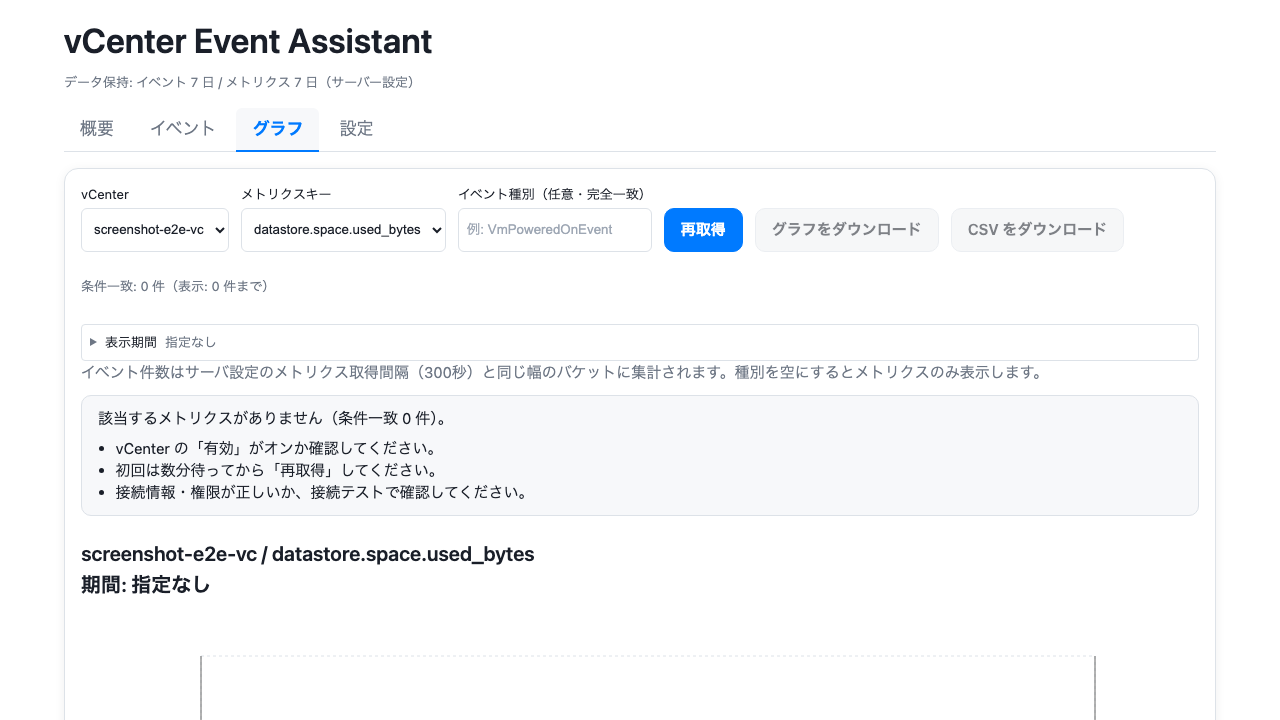
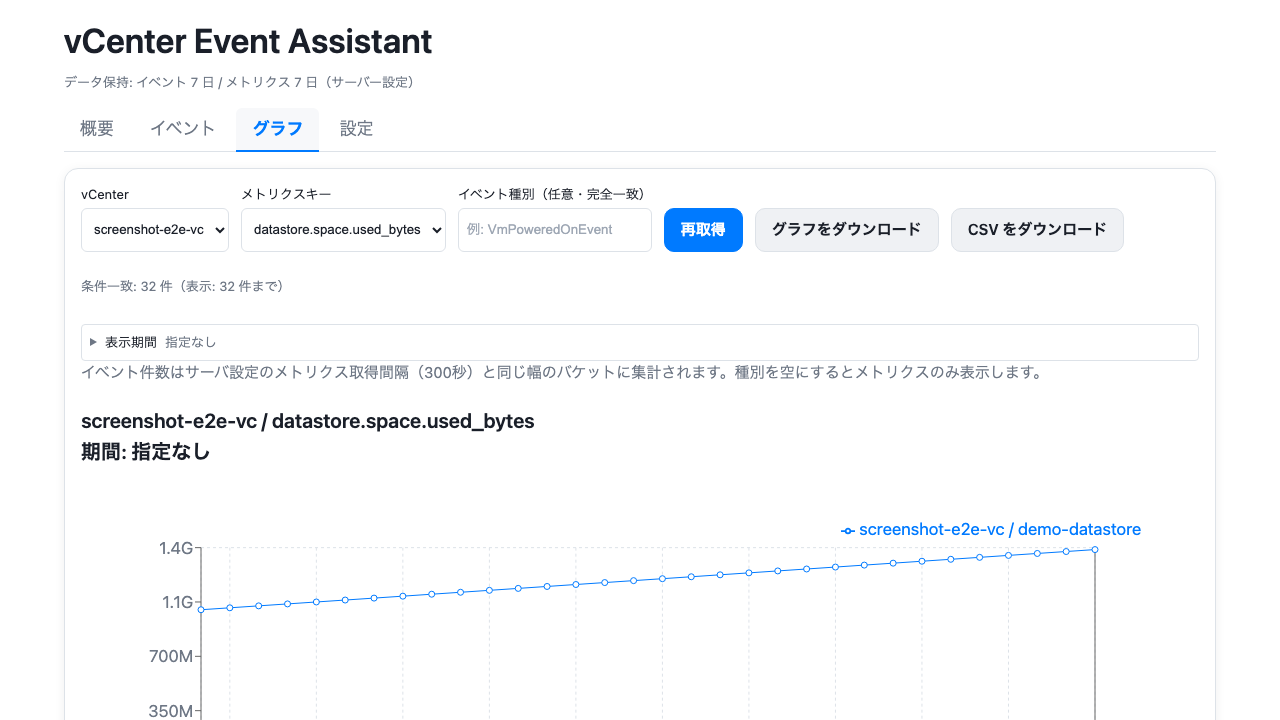
fix: ドキュメント用グラフキャプチャにメトリクス時系列をシード
datastore.space.used_bytes を既定選択に合わせて投入し、Playwright で
.recharts-line 表示を待ってから metrics.png を取得する。

Made-with: Cursor

diff --git a/frontend/e2e/screenshots.spec.ts b/frontend/e2e/screenshots.spec.ts
@@ -56,6 +56,8 @@ test('主要画面のスクリーンショットを docs/images に保存', asyn
   await page.getByRole('button', { name: 'グラフ' }).click()
   await expect(page.getByLabel('vCenter')).toBeVisible()
   await expect(page.getByLabel('メトリクスキー')).toBeVisible()
+  // シード済みメトリクスで折れ線が描画されるまで待つ（空グラフのキャプチャを避ける）
+  await expect(page.locator('.recharts-line')).toBeVisible({ timeout: 20_000 })
   await page.screenshot({
     path: path.join(docsImagesDir, 'metrics.png'),
     fullPage: false,

diff --git a/src/vcenter_event_assistant/dev/screenshot_e2e_seed.py b/src/vcenter_event_assistant/dev/screenshot_e2e_seed.py
@@ -2,16 +2,19 @@
 Playwright ドキュメント用スクリーンショット向けの最小 DB シード。
 
 環境変数 ``SCREENSHOT_E2E_SEED=1`` のときのみ実行する。本番では無効のままとする。
+
+投入内容: vCenter・イベント種別ガイド・イベントに加え、グラフタブ既定キー向けの
+``MetricSample``（``datastore.space.used_bytes`` の時系列）を含む。
 """
 
 from __future__ import annotations
 
 import os
-from datetime import datetime, timezone
+from datetime import datetime, timedelta, timezone
 
 from sqlalchemy import select
 
-from vcenter_event_assistant.db.models import EventRecord, EventTypeGuide, VCenter
+from vcenter_event_assistant.db.models import EventRecord, EventTypeGuide, MetricSample, VCenter
 from vcenter_event_assistant.db.session import session_scope
 
 _SCREENSHOT_VC_NAME = "screenshot-e2e-vc"
@@ -81,3 +84,20 @@ async def run_screenshot_e2e_seed_if_enabled() -> None:
                 notable_score=10,
             ),
         )
+
+        # グラフタブはキー一覧の先頭（`datastore.space.used_bytes`）が既定選択になるため、その系列を投入する。
+        _doc_metric_key = "datastore.space.used_bytes"
+        _doc_entity_moid = "datastore-1001"
+        for i in range(32):
+            sampled = now - timedelta(minutes=2 * (31 - i))
+            session.add(
+                MetricSample(
+                    vcenter_id=vc.id,
+                    sampled_at=sampled,
+                    entity_type="Datastore",
+                    entity_moid=_doc_entity_moid,
+                    entity_name="demo-datastore",
+                    metric_key=_doc_metric_key,
+                    value=float(1_000_000_000 + i * 12_500_000),
+                ),
+            )

diff --git a/tests/test_screenshot_e2e_seed.py b/tests/test_screenshot_e2e_seed.py
@@ -6,7 +6,7 @@ import pytest
 from httpx import ASGITransport, AsyncClient
 from sqlalchemy import func, select
 
-from vcenter_event_assistant.db.models import EventRecord, EventTypeGuide, VCenter
+from vcenter_event_assistant.db.models import EventRecord, EventTypeGuide, MetricSample, VCenter
 from vcenter_event_assistant.db.session import session_scope
 from vcenter_event_assistant.dev.screenshot_e2e_seed import run_screenshot_e2e_seed_if_enabled
 from vcenter_event_assistant.main import create_app
@@ -23,9 +23,11 @@ async def test_screenshot_e2e_seed_inserts_rows_and_api_exposes_guide(
         n_vc = (await session.execute(select(func.count()).select_from(VCenter))).scalar_one()
         n_g = (await session.execute(select(func.count()).select_from(EventTypeGuide))).scalar_one()
         n_ev = (await session.execute(select(func.count()).select_from(EventRecord))).scalar_one()
+        n_m = (await session.execute(select(func.count()).select_from(MetricSample))).scalar_one()
     assert n_vc == 1
     assert n_g == 3
     assert n_ev == 1
+    assert n_m >= 1
 
     app = create_app()
     transport = ASGITransport(app=app)

diff --git a/docs/development.md b/docs/development.md
@@ -59,7 +59,7 @@ Windows のコマンドプロンプトでは環境変数の付け方が異なる
 
 ### 出力ファイル
 
-すべて **1280×720 ピクセル**（固定ビューポート・ページ全体ではない）です。Playwright が起動する API では `SCREENSHOT_E2E_SEED=1` により、ドキュメント用にガイド付きイベントなどがメモリ DB に挿入されます。**`--existing` で手元の API にだけ向ける場合**は、このシードは付かないため、イベントのガイド展開キャプチャ用に **同等のデータ**を用意するか、該当ステップを手で調整してください。
+すべて **1280×720 ピクセル**（固定ビューポート・ページ全体ではない）です。Playwright が起動する API では `SCREENSHOT_E2E_SEED=1` により、ドキュメント用にガイド付きイベント・**メトリクス時系列**（既定で選択される `datastore.space.used_bytes` など）がメモリ DB に挿入され、グラフタブのキャプチャに折れ線が載ります。**`--existing` で手元の API にだけ向ける場合**は、このシードは付かないため、イベントのガイド展開キャプチャ用に **同等のデータ**を用意するか、該当ステップを手で調整してください。
 
 | ファイル名 | 画面 |
 |-----------|------|
